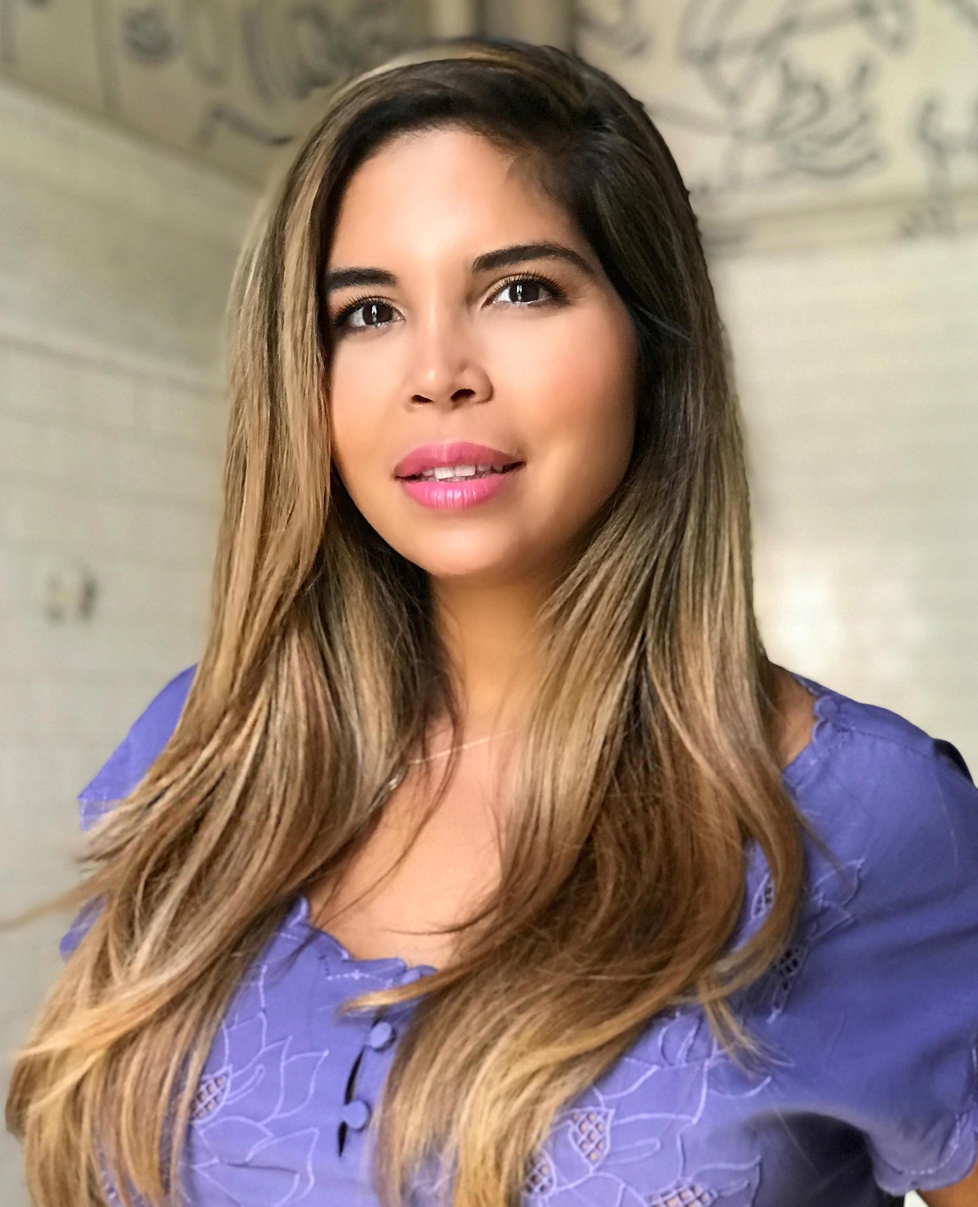
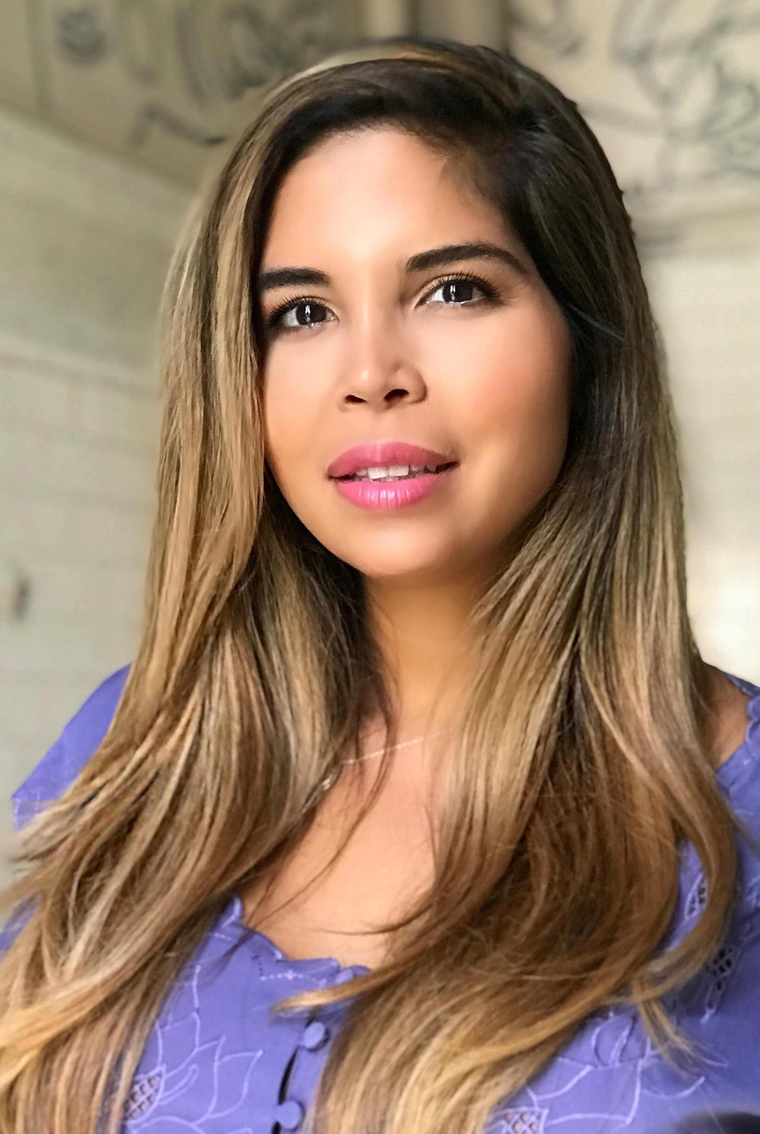
new pics

diff --git a/index.html b/index.html
@@ -9,7 +9,7 @@
 
 	<link rel="stylesheet" href="https://use.fontawesome.com/releases/v5.5.0/css/all.css" integrity="sha384-B4dIYHKNBt8Bc12p+WXckhzcICo0wtJAoU8YZTY5qE0Id1GSseTk6S+L3BlXeVIU" crossorigin="anonymous">
 	<link href="css/bootstrap.min.css" rel="stylesheet">
-
+  <link rel="icon" type="image/png" href="images/favicon.png">
 
 	<link href="js/slick/slick.css" rel="stylesheet">
 	<link href="js/fancybox/jquery.fancybox.css" rel="stylesheet">
@@ -135,7 +135,7 @@
 			</div>
 			<div class="col-md-6 col-sm-6 col-xs-12">
 
-				<img style="border-radius:5px;" src="images/facepic.jpg" class="img-responsive" width="600px" height="740px">
+				<img style="border-radius:5px;" src="images/13.jpg" class="img-responsive" width="600px" height="740px">
 
 			</div>
 			<!-- <div class="col-md-3 col-sm-3 col-xs-6">
@@ -240,30 +240,44 @@
 <section id="photos" class="content-area">
 	<div class="container-fluid">
 
-		<!-- <div class="gal-grid">
-
-		<ul>
-
-
-
-
-		<li class="gal-item"> -->
 		<div class="row">
 			<div class="col-xs-12">
 				<h1 class="left">Headshots</h1>
-				<!-- <svg version="1.1" xmlns="http://www.w3.org/2000/svg" xmlns:xlink="http://www.w3.org/1999/xlink" x="0px" y="0px" width="250px" height="40px" viewBox="0 0 366.6 48.7" fill="#cfa670" enable-background="new 0 0 366.6 48.7" xml:space="preserve">
-				<defs>
-			</defs>
-			<g><g><g><g>
-			<path d="M361.5,47.9c-46.7-4.5-93.5-7.4-139.9-10.2c-62.9-6.5-132.8-8-202.5-3c-8.2,0.2-15.9,1.4-17,2.7													c-1.3,1.2,4.4,2.1,12.5,1.8c9.1,0.1,18.3,0.2,27.6,0.1c4.7-0.1,9.4,0,14.1,0c4.7,0,9.5,0,14.3-0.1c4.8-0.1,9.6-0.1,14.5-0.2													c2.4-0.1,4.9-0.1,7.3-0.2c2.4,0,4.9-0.1,7.3-0.1c9.8-0.1,19.7-0.4,29.6-0.8c4.8-0.2,9.4,0,14.6,0.1c4.8,0,9.1-0.2,13.5-0.1													c8.8,0.2,17.4,0.3,26,0.4c8.6,0.2,17.1,0.5,25.5,0.7c4.2,0.1,8.5,0.2,12.7,0.3c2.1,0.1,4.2,0.1,6.4,0.2c2.1,0.1,4.2,0.2,6.4,0.3
-			c8.5,0.4,17.1,0.8,25.7,1.3c4.3,0.2,8.5,0.5,12.8,0.7c4.2,0.3,8.5,0.6,12.7,0.9c8.4,0.6,16.8,1.1,25.1,1.7
-			c8.3,0.5,16.6,1.3,24.9,2c8.3,0.7,16.6,1.5,24.9,2.3c1.6,0.2,2.9,0.1,3.3-0.1C364,48.3,363,48,361.5,47.9z"/>
-		</g></g></g></g>
-	</svg> -->
+
+			</div>
+
+	</div>
+	<div class="row">
+<div class="col-lg-3 col-md-3 col-sm-6 col-xs-12">
+	<a href="images/headshot3.jpg" class="fancybox" >
+		<img style="border-radius:5px;margin-bottom:2em;" src="images/headshot3.jpg" width="600px" height="740px" class="img-responsive">
+
+	</a>
+</div>
+<div class="col-lg-3 col-md-3 col-sm-6 col-xs-12">
+	<a href="images/16.jpg" class="fancybox" >
+		<img style="border-radius:5px;margin-bottom:2em;" src="images/16.jpg" width="600px" height="740px" class="img-responsive">
+
+	</a>
+</div>
+<div class="col-lg-3 col-md-3 col-sm-6 col-xs-12">
+	<a href="images/facepic.jpg" class="fancybox" >
+		<img style="border-radius:5px;margin-bottom:2em;" src="images/facepic.jpg" width="600px" height="740px" class="img-responsive">
+
+	</a>
+</div>
+<div class="col-lg-3 col-md-3 col-sm-6 col-xs-12">
+	<a href="images/15.jpg" class="fancybox" >
+		<img style="border-radius:5px;margin-bottom:2em;" src="images/15.jpg" width="600px" height="740px" class="img-responsive">
+
+	</a>
+</div>
 </div>
 
 
-<div class="col-lg-3 col-md-3 col-sm-3 col-xs-6">
+	<div class="row">
+
+<div class="col-lg-3 col-md-3 col-sm-6 col-xs-12">
 	<a href="images/facepic2.jpg" class="fancybox" >
 		<img style="border-radius:5px;margin-bottom:2em;" src="images/facepic2.jpg" width="600px" height="740px" class="img-responsive">
 
@@ -271,7 +285,7 @@
 </div>
 <!-- </li> -->
 
-<div class="col-lg-3 col-md-3 col-sm-3 col-xs-6">
+<div class="col-lg-3 col-md-3 col-sm-6 col-xs-12">
 	<!-- <li class="gal-item"> -->
 	<a href="images/headshot7.jpg" class="fancybox" >
 		<img style="border-radius:5px;margin-bottom:2em;" src="images/headshot7.jpg" class="img-responsive">
@@ -282,47 +296,45 @@
 
 
 <li class="gal-item"> -->
-<div class="col-lg-3 col-md-3 col-sm-3 col-xs-6">
+<div class="col-lg-3 col-md-3 col-sm-6 col-xs-12">
 	<a href="images/headshot1.jpg" class="fancybox" >
 		<img style="border-radius:5px;margin-bottom:2em;" src="images/headshot1.jpg" class="img-responsive">
 	</a>
 </div>
-<!-- </li>
 
 
-<li class="gal-item"> -->
-<div class="col-lg-3 col-md-3 col-sm-3 col-xs-6">
+
+<div class="col-lg-3 col-md-3 col-sm-6 col-xs-12">
 	<a href="images/headshot4.jpg" class="fancybox" >
 		<img style="border-radius:5px;margin-bottom:2em;" src="images/headshot4.jpg" class="img-responsive">
 	</a>
-	<!-- </li> -->
+</div>
+</div>
 
-</div>
-</div>
 <div class="row">
 	<div class="col-xs-12">
 		<h1 class="left">Modeling</h1>
 	</div>
 
-	<div class="col-lg-3 col-md-3 col-sm-3 col-xs-6">
+	<div class="col-lg-3 col-md-3 col-sm-6 col-xs-12">
 
 		<a href="images/modeling1.jpg" class="fancybox" >
 			<img style="border-radius:5px;margin-bottom:2em;" src="images/modeling1.jpg" class="img-responsive">
 		</a>
 	</div>
-	<div class="col-lg-3 col-md-3 col-sm-3 col-xs-6">
+	<div class="col-lg-3 col-md-3 col-sm-6 col-xs-12">
 		<a href="images/modeling2.jpg" class="fancybox" >
 			<img style="border-radius:5px;margin-bottom:2em;" src="images/modeling2.jpg" class="img-responsive">
 
 		</a>
 	</div>
-	<div class="col-lg-3 col-md-3 col-sm-3 col-xs-6">
+<div class="col-lg-3 col-md-3 col-sm-6 col-xs-12">
 		<a href="images/modeling3.jpg" class="fancybox" >
 			<img style="border-radius:5px;margin-bottom:2em;" src="images/modeling3.jpg" class="img-responsive">
 
 		</a>
 	</div>
-	<div class="col-lg-3 col-md-3 col-sm-3 col-xs-6">
+<div class="col-lg-3 col-md-3 col-sm-6 col-xs-12">
 		<a href="images/modeling4.jpg" class="fancybox" >
 
 			<img style="border-radius:5px;margin-bottom:2em;" src="images/modeling4.jpg" class="img-responsive">
@@ -338,25 +350,78 @@
 		<h1 class="left">Stills</h1>
 	</div>
 
-	<div class="col-lg-3 col-md-3 col-sm-3 col-xs-6">
+	<div class="col-lg-3 col-md-3 col-sm-6 col-xs-12">
+		<a href="images/11.jpg" class="fancybox">
+			<img style="border-radius:5px;margin-bottom:2em;" src="images/11.jpg" class="img-responsive">
+		</a>
+	</div>
+	<div class="col-lg-3 col-md-3 col-sm-6 col-xs-12">
+		<a href="images/14.jpg" class="fancybox" >
+			<img style="border-radius:5px;margin-bottom:2em;" src="images/14.jpg" class="img-responsive">
+		</a>
+	</div>
+	<div class="col-lg-3 col-md-3 col-sm-6 col-xs-12">
+		<a href="images/10.jpg" class="fancybox" >
+			<img style="border-radius:5px;margin-bottom:2em;" src="images/10.jpg" class="img-responsive">
+		</a>
+	</div>
+	<div class="col-lg-3 col-md-3 col-sm-6 col-xs-12">
+		<a href="images/18.jpg" class="fancybox" >
+			<img style="border-radius:5px;margin-bottom:2em;" src="images/18.jpg" class="img-responsive">
+		</a>
+	</div>
+</div>
+
+
+	<div class="row">
+		<div class="col-lg-3 col-md-3 col-sm-6 col-xs-12">
+
+			<a href="images/17.jpg" class="fancybox" >
+				<img style="border-radius:5px;margin-bottom:2em;" src="images/17.jpg" class="img-responsive">
+			</a>
+		</div>
+		<div class="col-lg-3 col-md-3 col-sm-6 col-xs-12">
+
+			<a href="images/12.jpg" class="fancybox" >
+				<img style="border-radius:5px;margin-bottom:2em;" src="images/12.jpg" class="img-responsive">
+			</a>
+		</div>
+		<div class="col-lg-3 col-md-3 col-sm-6 col-xs-12">
+
+			<a href="images/30.jpg" class="fancybox" >
+				<img style="border-radius:5px;margin-bottom:2em;" src="images/30.jpg" class="img-responsive">
+			</a>
+		</div>
+		<div class="col-lg-3 col-md-3 col-sm-6 col-xs-12">
+
+			<a href="images/19.jpg" class="fancybox" >
+				<img style="border-radius:5px;margin-bottom:2em;" src="images/19.jpg" class="img-responsive">
+			</a>
+		</div>
+
+	</div>
+
+	<div class="row">
+
+	<div class="col-lg-3 col-md-3 col-sm-6 col-xs-12">
 
 		<a href="images/naturalpic.jpg" class="fancybox" >
 			<img style="border-radius:5px;margin-bottom:2em;" src="images/naturalpic.jpg" class="img-responsive">
 		</a>
 	</div>
-	<div class="col-lg-3 col-md-3 col-sm-3 col-xs-6">
+<div class="col-lg-3 col-md-3 col-sm-6 col-xs-12">
 		<a href="images/actingpic2.jpg" class="fancybox" >
 			<img style="border-radius:5px;margin-bottom:2em;" src="images/actingpic2.jpg" class="img-responsive">
 
 		</a>
 	</div>
-	<div class="col-lg-3 col-md-3 col-sm-3 col-xs-6">
+<div class="col-lg-3 col-md-3 col-sm-6 col-xs-12">
 		<a href="images/actingpic.jpg" class="fancybox" >
 			<img style="border-radius:5px;margin-bottom:2em;" src="images/actingpic.jpg" class="img-responsive">
 
 		</a>
 	</div>
-	<div class="col-lg-3 col-md-3 col-sm-3 col-xs-6">
+	<div class="col-lg-3 col-md-3 col-sm-6 col-xs-12">
 		<a href="images/castingcall.jpg" class="fancybox" >
 
 			<img style="border-radius:5px;margin-bottom:2em;" src="images/castingcall.jpg" class="img-responsive">
@@ -367,7 +432,6 @@
 </div>
 </section>
 
-<!-- Start Restaurant Title -->
 <section id="stats" class="title-area bg-home-restaurant">
 	<div class="container-fluid">
 		<div class="row">

diff --git a/scss/styles.css b/scss/styles.css
@@ -210,6 +210,10 @@ ul {
   float: right;
   margin: 10px 0px 10px 20px; }
 
+  .mh400 {
+    height:800px;
+  }
+
 /* ============================================================================ */
 /* 1.1 - Preloader																*/
 /* ============================================================================ */
@@ -458,7 +462,7 @@ button.btn {
 /* 1.5 - Backgrounds															*/
 /* ============================================================================ */
 .bg.naiomiOne {
-  background: url(../images/headshot2.jpg); }
+  background: url(../images/14.jpg); }
 
 .bg-specialities-title {
   background: url(images/headshot2.jpg); }
